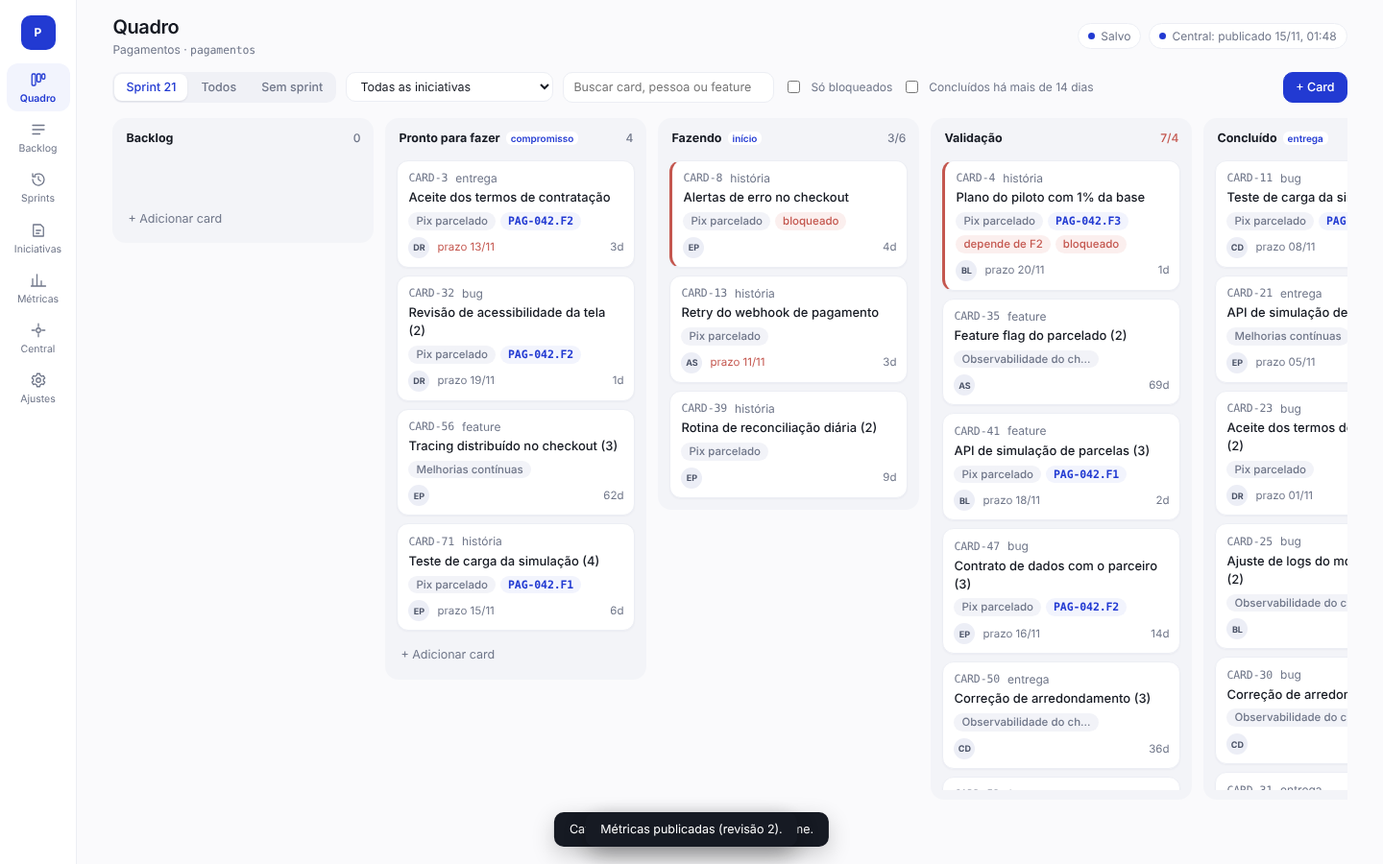
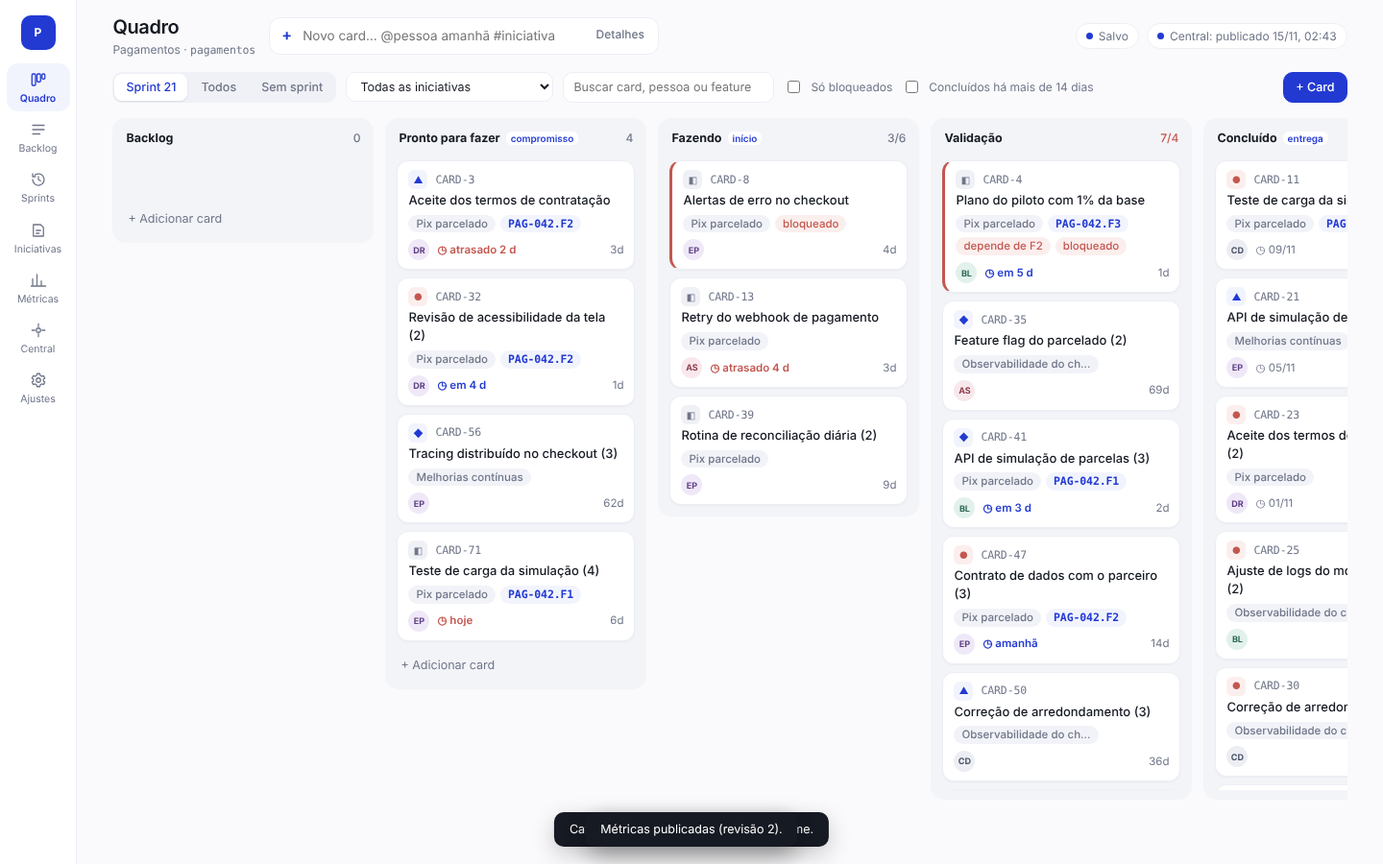
Quadro do Time: novo card no padrão da Central, criação rápida e lista de cards
- Formulário de novo card em dois painéis, como a tarefa da v14: título grande,
  responsável por avatar com "+ Nova pessoa", prazo com atalhos, sprint,
  iniciativa, feature na Central (fase e dependências), descrição; ao lado tipo,
  coluna inicial, pontos, link, "Mostrar ao gestor" e "Criar outro em seguida".
- Barra de criação rápida no topo: @pessoa, hoje/amanhã/dd/mm, #iniciativa ou
  #PAG-042, F2 e !tipo; "Detalhes" abre o formulário já preenchido.
- Backlog virou lista agrupável (iniciativa, coluna, responsável, sprint) com
  filtros, busca, prazo relativo e "+ Card" por grupo.
- Cards do quadro com ícone do tipo e prazo relativo.
- Guia e telas atualizados. Contratos e schemas sem mudança.

Claude-Session: https://claude.ai/code/session_01Y4vaEcSFp9bJeK3TKJREPW

diff --git a/ferramenta-time/quadro_do_time_v1.html b/ferramenta-time/quadro_do_time_v1.html
@@ -163,6 +163,41 @@ dialog.wide{width:min(1020px,96vw)}
 .fcard .ci{display:flex;align-items:center;gap:6px;font-size:12px;padding:3px 6px;border-radius:8px;text-align:left;width:100%}.fcard .ci:hover{background:#f3f4f8}
 .fcard .ci .t{flex:1;min-width:0;white-space:nowrap;overflow:hidden;text-overflow:ellipsis}
 @media (max-width:900px){.ep-layout{grid-template-columns:1fr}.ep-list{position:static;max-height:none}.kpis{grid-template-columns:repeat(2,minmax(0,1fr))}.tl-row,.tl-axis{grid-template-columns:90px minmax(0,1fr)}.tl-ov{left:116px}}
+/* Criação rápida e formulário de card (mesmo padrão da Central) */
+.quick{flex:1;max-width:620px;min-width:220px;position:relative}
+.quick input{width:100%;border:1px solid var(--line);background:#fff;border-radius:12px;padding:9px 92px 9px 34px;outline:none}
+.quick input:focus{border-color:var(--bv);box-shadow:0 0 0 3px var(--bv-soft)}
+.quick .pl{position:absolute;left:13px;top:7px;color:var(--bv);font-weight:700;font-size:16px}
+.quick .more{position:absolute;right:5px;top:5px}
+.qinfo{position:absolute;left:0;top:100%;margin-top:6px;display:none;background:#fff;color:var(--muted);border:1px solid var(--line);border-radius:10px;padding:6px 10px;font-size:12px;box-shadow:0 8px 24px rgba(20,30,70,.1);width:max-content;max-width:min(560px,90vw);z-index:5}
+.quick:focus-within .qinfo{display:block}
+.tf-grid{display:grid;grid-template-columns:minmax(0,1.15fr) minmax(0,1fr);flex:1;min-height:0}
+.tf-main{padding:24px 28px;display:flex;flex-direction:column;gap:16px;overflow:auto}
+.tf-side{padding:24px;background:#f8f9fc;border-left:1px solid var(--line);display:flex;flex-direction:column;gap:14px;overflow:auto}
+.tf-h{font-family:var(--title);font-size:12px;font-weight:650;letter-spacing:.06em;text-transform:uppercase;color:var(--muted)}
+.tf-title{border:0;border-bottom:1.5px solid var(--line);outline:none;font-size:19px;font-weight:600;font-family:var(--title);letter-spacing:-.01em;padding:6px 0 10px;width:100%;background:transparent}
+.tf-title:focus{border-bottom-color:var(--bv)}.tf-title::placeholder{color:var(--faint);font-weight:500}
+.tf-row{display:grid;grid-template-columns:1fr 1fr;gap:12px}
+.field{display:flex;flex-direction:column;gap:5px;min-width:0}.field>label{font-size:11.5px;font-weight:600;color:var(--muted)}
+.field input:not([type=checkbox]),.field select,.field textarea{width:100%;border:1px solid #e1e4ec;border-radius:10px;padding:8px 10px;background:#fff;outline:none}
+.field input:focus,.field select:focus,.field textarea:focus{border-color:var(--bv)}
+.hint{font-size:11.5px;color:var(--muted);display:flex;gap:6px;flex-wrap:wrap;align-items:center}
+.tgl{display:inline-flex;gap:8px;align-items:center;font-size:13px;color:var(--ink);font-weight:500;cursor:pointer}.tgl input{accent-color:var(--bv)}
+.sgw{display:flex;background:#f0f1f6;border-radius:10px;padding:2px;gap:2px;flex-wrap:wrap}.sgw button{flex:1;padding:5px 6px;border-radius:8px;color:var(--muted);font-weight:550;font-size:12px;white-space:nowrap}
+.sgw button.on{background:#fff;color:var(--bv);box-shadow:0 1px 2px rgba(20,30,70,.1)}
+.macts{display:flex;gap:8px;justify-content:flex-end;align-items:center;padding:14px 24px;border-top:1px solid var(--line)}
+/* Lista de cards */
+.lgrp{background:#fff;border:1px solid var(--line);border-radius:16px;overflow:hidden}
+.lgh{display:flex;align-items:center;gap:10px;padding:12px 16px;background:#fbfbfd;border-bottom:1px solid var(--line);flex-wrap:wrap}
+.lgh h3{font-size:13.5px}
+.lrow{display:grid;grid-template-columns:22px 62px minmax(0,1fr) 120px 110px 92px 26px;gap:10px;align-items:center;padding:8px 16px;border-bottom:1px solid var(--line);cursor:pointer;font-size:12.5px}
+.lrow:last-child{border-bottom:0}.lrow:hover{background:#f7f8fc}.lrow.done{color:var(--muted)}.lrow.done .lt{text-decoration:line-through;text-decoration-color:var(--faint)}
+.lrow .lt{display:flex;gap:6px;align-items:center;min-width:0}.lrow .lt>span:first-child{white-space:nowrap;overflow:hidden;text-overflow:ellipsis;font-weight:550}
+.lrow .sel{padding:3px 6px;font-size:11.5px;width:100%}
+.colp{display:inline-flex;align-items:center;gap:6px;font-size:11.5px;color:var(--muted);white-space:nowrap;overflow:hidden}.colp i{width:8px;height:8px;border-radius:50%;flex:none}
+.kic{display:inline-grid;place-items:center;width:20px;height:20px;border-radius:6px;background:#f0f1f6;color:var(--muted);font-size:10px}.kic.bug{background:var(--late-soft);color:var(--late)}.kic.feature,.kic.entrega{background:var(--bv-soft);color:var(--bv)}
+.due{font-size:11.5px;white-space:nowrap}.due.late{color:var(--late);font-weight:600}.due.soon{color:var(--bv);font-weight:600}
+@media (max-width:900px){.tf-row{grid-template-columns:1fr}.tf-grid{display:block;overflow:auto}.tf-main,.tf-side{overflow:visible}.tf-side{border-left:0;border-top:1px solid var(--line)}.lrow{grid-template-columns:22px minmax(0,1fr) auto 26px}.lrow .hm{display:none}.bar .sgw{flex:1 1 100%!important}.quick{order:3;flex-basis:100%}}
 dialog::backdrop{background:rgba(22,26,35,.35)}
 .mh{display:flex;align-items:center;gap:10px;padding:16px 20px;border-bottom:1px solid var(--line);position:sticky;top:0;background:#fff;z-index:1}
 .mb{padding:16px 20px;overflow:auto}
@@ -318,7 +353,7 @@ let lastMod = 0;            // lastModified conhecido do arquivo de dados
 let dirty = false, saving = false, saveTimer = null, saveState = 'none', saveErr = '';
 let catalog = null, catalogErr = '';  // catálogo decifrado (só em memória)
 let view = 'board';
-const ui = { boardFilter: 'sprint', epicFilter: '', q: '', onlyBlocked: false, showOldDone: false, backlogDone: false, metricsJson: false, centralPreview: '', epicSel: '', epicDone: false };
+const ui = { boardFilter: 'sprint', epicFilter: '', q: '', onlyBlocked: false, showOldDone: false, backlogDone: false, metricsJson: false, centralPreview: '', epicSel: '', epicDone: false, bGroup: 'epic', bFilter: 'open', lq: '' };
 const pub = { pendingStatus: false, timer: null, busy: false, msg: '', err: '' };
 let keysInfo = { lista: [], atual: null };
 let rootOk = false, rootName = '';
@@ -359,6 +394,15 @@ function normalizeDb(d) {
   for (const e of d.epics) { e.updates ??= []; e.featureNotes ??= {}; e.uid ??= uid(); }
   for (const s of d.sprints) { s.committed ??= []; s.uid ??= uid(); }
   return d;
+}
+
+const KIND_IC = { 'história': '◧', feature: '◆', entrega: '▲', bug: '●', spike: '✦', melhoria: '↑' };
+const kic = k => `<span class="kic ${k === 'bug' ? 'bug' : k === 'feature' || k === 'entrega' ? 'feature' : ''}" title="${esc(k)}">${KIND_IC[k] || '◧'}</span>`;
+function relDue(c) {         // prazo relativo: "amanhã", "em 3 d", "atrasado 2 d"
+  if (!isYmd(c.due)) return null;
+  if (isDone(c) || c.cancelledAt) return { txt: fmtD(c.due), cls: '' };
+  const n = Math.round((parseYmd(c.due) - parseYmd(today())) / DAY);
+  return n < 0 ? { txt: `atrasado ${-n} d`, cls: 'late' } : n === 0 ? { txt: 'hoje', cls: 'late' } : n === 1 ? { txt: 'amanhã', cls: 'soon' } : n <= 7 ? { txt: `em ${n} d`, cls: 'soon' } : { txt: fmtD(c.due), cls: '' };
 }
 
 /* ------------------------- pessoas do time ------------------------- */
@@ -918,7 +962,7 @@ function render() {
   try { body = ({ board: vBoard, backlog: vBacklog, sprints: vSprints, epics: vEpics, metrics: vMetrics, central: vCentral, settings: vSettings })[view](); }
   catch (e) { console.error(e); body = `<div class="banner warn">Erro ao desenhar a tela: ${esc(e.message)}</div>`; }
   const sx = $('#main').querySelector('.board')?.scrollLeft;
-  $('#main').innerHTML = `<header class="top"><div><h1>${esc(title)}</h1><div class="team">${esc(db.team.name)}${db.team.slug ? ` · <span class="code">${esc(db.team.slug)}</span>` : ''}</div></div><div class="grow"></div><div class="row" id="chrome">${chromeHtml()}</div></header>
+  $('#main').innerHTML = `<header class="top"><div><h1>${esc(title)}</h1><div class="team">${esc(db.team.name)}${db.team.slug ? ` · <span class="code">${esc(db.team.slug)}</span>` : ''}</div></div><div class="quick"><span class="pl">+</span><input id="quickCard" autocomplete="off" placeholder="Novo card… @pessoa amanhã #iniciativa" aria-label="Criar card rápido"><button class="btn sm ghost more" data-act="quickMore" title="Abrir o formulário completo">Detalhes</button><div class="qinfo" id="qinfo">Enter cria no ${esc(cols()[0].name)} · @pessoa responsável · hoje, amanhã ou dd/mm · #iniciativa ou #PAG-042 · F2 feature da Central · !bug, !spike, !feature…</div></div><div class="grow"></div><div class="row" id="chrome">${chromeHtml()}</div></header>
     ${db.demo ? '<div class="banner">Exemplo com dados fictícios do time Pagamentos. Nada é salvo nem publicado. <button class="btn sm" data-act="home">Voltar ao início</button></div>' : ''}
     ${body}`;
   if (sx) { const b = $('#main').querySelector('.board'); if (b) b.scrollLeft = sx; }
@@ -986,9 +1030,9 @@ function vBoard() {
 function kcHtml(c) {
   const age = daysInCol(c);
   return `<article class="kc ${c.blocked ? 'blk' : ''}" draggable="true" data-card="${c.id}" data-act="card">
-    <div class="row small muted"><span class="code">${esc(c.id)}</span><span>${esc(c.kind || '')}</span><span class="grow"></span>${c.points != null && c.points !== '' ? `<span>${esc(c.points)} pt</span>` : ''}</div>
+    <div class="row small muted">${kic(c.kind)}<span class="code">${esc(c.id)}</span><span class="grow"></span>${c.points != null && c.points !== '' ? `<span class="chip line">${esc(c.points)} pt</span>` : ''}</div>
     <div class="tt">${esc(c.title)}</div><div class="mt">${cardChips(c)}</div>
-    <div class="ft">${c.owner ? avatar(c.owner) : ''}${c.due ? `<span class="${!isDone(c) && c.due < today() ? 'latec' : ''}">prazo ${fmtD(c.due)}</span>` : ''}<span class="grow"></span>${!isDone(c) && colIdx(c.col) > 0 ? `<span title="Dias nesta coluna">${age}d</span>` : ''}</div></article>`;
+    <div class="ft">${c.owner ? avatar(c.owner) : ''}${relDue(c) ? `<span class="due ${relDue(c).cls}" title="Prazo ${fmtD(c.due)}">◷ ${relDue(c).txt}</span>` : ''}<span class="grow"></span>${!isDone(c) && colIdx(c.col) > 0 ? `<span title="Dias nesta coluna">${age}d</span>` : ''}</div></article>`;
 }
 function wireBoard() {
   const b = $('#main').querySelector('.board'); if (!b) return;
@@ -1012,21 +1056,39 @@ function epicOpts(sel, vazio, comSem = false) {
 }
 
 /* --------------------------------- Backlog --------------------------------- */
+function colDot(colId) { const i = colIdx(colId), n = Math.max(1, cols().length - 1); return STAGE_COL[Math.min(STAGE_COL.length - 1, Math.round(i / n * (STAGE_COL.length - 1)))] || '#d5dbf7'; }
+function listRow(c, sps) {
+  const d = relDue(c), col = cols()[colIdx(c.col)];
+  const spOpts = [...sps, ...(c.sprintId && !sps.some(s => s.id === c.sprintId) ? [sprintById(c.sprintId)].filter(Boolean) : [])];
+  return `<div class="lrow ${isDone(c) ? 'done' : ''}" data-act="card" data-card="${c.id}">${kic(c.kind)}<span class="code muted hm">${c.id}</span>
+    <span class="lt"><span>${esc(c.title)}</span>${c.featureRef ? `<span class="chip bv code">${esc(c.featureRef.split('.')[1])}</span>` : ''}${c.blocked ? '<span class="chip late">bloqueado</span>' : ''}</span>
+    <span class="colp hm"><i style="background:${colDot(c.col)}"></i>${esc(col?.name || c.col)}</span>
+    <span class="hm"><select class="sel" data-act="setSprint" data-card="${c.id}" onclick="event.stopPropagation()"><option value="">Sem sprint</option>${spOpts.map(s => `<option value="${s.id}" ${c.sprintId === s.id ? 'selected' : ''}>${esc(s.name)}</option>`).join('')}</select></span>
+    <span class="due ${d?.cls || ''}">${d ? '◷ ' + d.txt : '<span class="faint">sem prazo</span>'}</span>${c.owner ? avatar(c.owner) : '<span class="av" title="Sem responsável" style="background:#fff;border:1px dashed var(--faint)"></span>'}</div>`;
+}
 function vBacklog() {
-  const groups = [...epicsLive().filter(e => e.status !== 'done'), { id: '', name: 'Sem iniciativa' }];
-  const sps = db.sprints.filter(s => !s.deleted && s.state !== 'closed');
-  const html = groups.map(e => {
-    const cs = activeCards().filter(c => (c.epicId || '') === e.id && (ui.backlogDone || !isDone(c))).sort((a, b) => colIdx(a.col) - colIdx(b.col) || a.order - b.order);
-    if (!e.id && !cs.length) return '';
-    return `<div class="card flat"><div class="row" style="margin-bottom:8px"><h3>${esc(e.name)}</h3>${e.centralRef ? `<span class="chip bv code">${esc(e.centralRef)}</span>` : e.id ? '<span class="chip">iniciativa do time</span>' : ''}<span class="grow"></span>
-      <form class="row" data-act="quickAdd" data-epic="${e.id}"><input class="sin" name="t" placeholder="Novo card nesta iniciativa" style="width:240px"><button class="btn sm">Adicionar</button></form></div>
-      ${cs.length ? `<table class="t"><thead><tr><th>Card</th><th>Título</th><th>Tipo</th><th>Feature na Central</th><th>Coluna</th><th>Sprint</th><th>Prazo</th></tr></thead><tbody>${cs.map(c => `<tr class="click" data-act="card" data-card="${c.id}">
-        <td class="code">${c.id}</td><td>${esc(c.title)} ${c.blocked ? '<span class="chip late">bloqueado</span>' : ''}</td><td class="muted">${esc(c.kind)}</td><td>${c.featureRef ? `<span class="chip bv code">${esc(c.featureRef)}</span>` : '<span class="faint">–</span>'}</td>
-        <td>${esc(cols()[colIdx(c.col)]?.name || c.col)}</td><td><select class="sel" data-act="setSprint" data-card="${c.id}" onclick="event.stopPropagation()"><option value="">Sem sprint</option>${[...sps, ...(c.sprintId && !sps.some(s => s.id === c.sprintId) ? [sprintById(c.sprintId)].filter(Boolean) : [])].map(s => `<option value="${s.id}" ${c.sprintId === s.id ? 'selected' : ''}>${esc(s.name)}</option>`).join('')}</select></td>
-        <td class="${c.due && c.due < today() && !isDone(c) ? 'latec' : ''}">${fmtD(c.due)}</td></tr>`).join('')}</tbody></table>` : '<div class="empty">Sem cards abertos.</div>'}</div>`;
-  }).join('');
-  return `<div class="bar"><span class="muted small">Todos os cards do time, por iniciativa. As métricas consideram o backlog inteiro, com ou sem vínculo com a Central.</span><div class="grow"></div>
-    <label class="row small muted"><input type="checkbox" data-act="bd" ${ui.backlogDone ? 'checked' : ''}> Mostrar concluídos</label><button class="btn" data-act="newEpic">+ Iniciativa do time</button><button class="btn pri" data-act="newCard">+ Card</button></div><div class="stack">${html}</div>`;
+  const sps = db.sprints.filter(s => !s.deleted && s.state !== 'closed').sort((a, b) => (a.start || '').localeCompare(b.start || ''));
+  const q = normName(ui.lq), t = today();
+  const F = { open: c => !isDone(c), late: c => !isDone(c) && isYmd(c.due) && c.due < t, week: c => !isDone(c) && isYmd(c.due) && c.due <= addDays(t, 7), blocked: c => !!c.blocked && !isDone(c), noowner: c => !c.owner && !isDone(c), all: () => true };
+  const base = activeCards().filter(c => !q || normName(`${c.id} ${c.title} ${c.owner} ${c.featureRef || ''}`).includes(q));
+  const cs = base.filter(F[ui.bFilter] || F.open);
+  const cnt = k => base.filter(F[k]).length;
+  let groups;
+  if (ui.bGroup === 'col') groups = cols().map(c => ({ key: c.id, name: c.name, def: { col: c.id }, cards: cs.filter(x => x.col === c.id), dot: colDot(c.id) }));
+  else if (ui.bGroup === 'owner') { const ps = activePeople(); groups = [...ps.map(p => ({ key: p.id, name: p.name, av: p.name, sub: p.role, def: { owner: p.name }, cards: cs.filter(c => normName(c.owner) === normName(p.name)) })), { key: '-', name: 'Sem responsável', def: {}, cards: cs.filter(c => !c.owner) }, { key: '+', name: 'Fora da lista do time', def: {}, cards: cs.filter(c => c.owner && !ps.some(p => normName(p.name) === normName(c.owner))) }]; }
+  else if (ui.bGroup === 'sprint') groups = [...sps.map(s => ({ key: s.id, name: s.name, sub: `${fmtD(s.start)} a ${fmtD(s.end)}${s.state === 'active' ? ' · em andamento' : ''}`, def: { sprintId: s.id }, cards: cs.filter(c => c.sprintId === s.id) })), { key: '-', name: 'Sem sprint', def: { sprintId: null }, cards: cs.filter(c => !c.sprintId || !sps.some(s => s.id === c.sprintId)) }];
+  else groups = [...epicsLive().filter(e => e.status !== 'done').map(e => ({ key: e.id, name: e.name, ref: e.centralRef || '', lat: !e.centralRef, def: { epicId: e.id }, cards: cs.filter(c => c.epicId === e.id), prog: epicProgress(e) })), { key: '-', name: 'Sem iniciativa', def: { epicId: '' }, cards: cs.filter(c => !c.epicId || epicById(c.epicId)?.status === 'done') }];
+  const sortC = (a, b) => (isDone(a) - isDone(b)) || ((b.blocked ? 1 : 0) - (a.blocked ? 1 : 0)) || (a.due || '9999').localeCompare(b.due || '9999') || colIdx(b.col) - colIdx(a.col) || a.order - b.order;
+  const html = groups.filter(g => g.cards.length || ['epic', 'col', 'sprint'].includes(ui.bGroup) && g.key !== '-').map(g => `<div class="lgrp"><div class="lgh">${g.av ? avatar(g.av) : g.dot ? `<span class="colp"><i style="background:${g.dot}"></i></span>` : ''}<h3>${esc(g.name)}</h3>
+      ${g.ref ? `<span class="chip bv code">${esc(g.ref)}</span>` : g.lat ? '<span class="chip">do time</span>' : ''}${g.sub ? `<span class="small muted">${esc(g.sub)}</span>` : ''}<span class="small faint">${g.cards.length} card(s)</span>
+      ${g.prog != null ? `<span class="row small muted" style="width:140px;flex-wrap:nowrap"><span class="pb"><i style="width:${g.prog}%"></i></span>${g.prog}%</span>` : ''}<span class="grow"></span>
+      <button class="btn sm ghost" data-act="newCardIn" data-def="${esc(JSON.stringify(g.def))}">+ Card</button></div>
+      ${g.cards.length ? g.cards.sort(sortC).map(c => listRow(c, sps)).join('') : '<div class="empty" style="padding:12px 16px">Nada aqui com este filtro.</div>'}</div>`).join('');
+  return `<div class="bar"><div class="sgw" style="flex:none">${[['open', 'Abertos'], ['late', 'Atrasados'], ['week', 'Vencem em 7 dias'], ['blocked', 'Bloqueados'], ['noowner', 'Sem responsável'], ['all', 'Todos']].map(([k, l]) => `<button class="${ui.bFilter === k ? 'on' : ''}" data-act="bFilter" data-v="${k}">${l} <span class="faint">${cnt(k)}</span></button>`).join('')}</div>
+    <input class="sin" data-act="lq" placeholder="Filtrar cards" value="${esc(ui.lq)}" style="width:180px"><div class="grow"></div>
+    <span class="small muted">Agrupar por</span><div class="sgw" style="flex:none">${[['epic', 'Iniciativa'], ['col', 'Coluna'], ['owner', 'Responsável'], ['sprint', 'Sprint']].map(([k, l]) => `<button class="${ui.bGroup === k ? 'on' : ''}" data-act="bGroup" data-v="${k}">${l}</button>`).join('')}</div>
+    <button class="btn" data-act="newEpic">+ Iniciativa do time</button><button class="btn pri" data-act="newCard">+ Card</button></div>
+    <div class="stack">${html || '<div class="card flat muted">Nenhum card ainda. Use a barra no topo ou "+ Card".</div>'}</div>`;
 }
 
 /* --------------------------------- Sprints --------------------------------- */
@@ -1268,7 +1330,6 @@ function featureOpts(c) {
   const extra = c.featureRef && !fs.some(f => f.ref === c.featureRef) ? `<option value="${esc(c.featureRef)}" selected>${esc(c.featureRef)} (fora do catálogo)</option>` : '';
   return `<option value="">Sem feature</option>${extra}${fs.map(f => { const ph = featPhase({ ...f, init: ci }); return `<option value="${esc(f.ref)}" ${c.featureRef === f.ref ? 'selected' : ''}>${esc(f.ref)} · ${esc(f.name)}${ph ? ' · ' + esc(ph.name) : ''}</option>`; }).join('')}`;
 }
-const KIND_IC = { 'história': '◧', feature: '◆', entrega: '▲', bug: '●', spike: '✦', melhoria: '↑' };
 function cardModal(id) {
   const c = cardById(id); if (!c) return;
   const e = epicById(c.epicId), ci = catInit(e?.centralRef), f = c.featureRef ? catFeature(c.featureRef) : null, ph = featPhase(f), deps = featDeps(f);
@@ -1332,6 +1393,84 @@ function cardModal(id) {
   }));
   const t = $('#dlg .ttl-in'); t.onkeydown = ev => { if (ev.key === 'Enter') t.blur(); };
 }
+let nf = null;               // rascunho do formulário de novo card
+function newCardModal(def = {}) {
+  const sp = activeSprint();
+  nf = { title: '', owner: '', due: '', epicId: '', featureRef: null, kind: 'história', col: cols()[0].id, sprintId: view === 'board' && ui.boardFilter === 'sprint' && sp ? sp.id : null, points: '', link: '', notes: '', showToCentral: false, again: false, ...def };
+  if (nf.featureRef && !nf.epicId) { const ini = nf.featureRef.split('.')[0]; nf.epicId = epicsLive().find(e => e.centralRef === ini)?.id || ''; }
+  renderNewCard(); setTimeout(() => { const t = $('#nfTitle'); t?.focus(); t?.setSelectionRange(t.value.length, t.value.length); }, 30);
+}
+function renderNewCard() {
+  const e = epicById(nf.epicId), ci = catInit(e?.centralRef), f = nf.featureRef ? catFeature(nf.featureRef) : null, ph = featPhase(f), od = openDeps(f);
+  const fs = (ci?.features || []).filter(x => x.status === 'open');
+  const pessoas = activePeople();
+  const sps = db.sprints.filter(s => !s.deleted && s.state !== 'closed');
+  const venc = isYmd(nf.due) ? Math.round((parseYmd(nf.due) - parseYmd(today())) / DAY) : null;
+  modal(`<form class="tform" id="nfForm" style="display:flex;flex-direction:column;min-height:0;flex:1"><div class="tf-grid">
+    <div class="tf-main">
+      <div class="tf-h">Novo card</div>
+      <input class="tf-title" id="nfTitle" placeholder="O que precisa ser feito?" value="${esc(nf.title)}" maxlength="200" autocomplete="off" required>
+      <div class="field"><label>Responsável</label><div class="who"><button type="button" class="none ${nf.owner ? '' : 'on'}" data-act="nfSet" data-k="owner" data-v="">Ninguém</button>${pessoas.map(p => `<button type="button" class="${normName(p.name) === normName(nf.owner) ? 'on' : ''}" data-act="nfSet" data-k="owner" data-v="${esc(p.name)}" title="${esc(p.role || '')}">${avatar(p.name)}${esc(p.name.split(' ')[0])}</button>`).join('')}</div>
+        <div class="mini"><input class="sin" id="nfNewP" placeholder="+ Nova pessoa no time" maxlength="80" autocomplete="off"><button type="button" class="btn sm" data-act="nfAddP">Adicionar</button></div></div>
+      <div class="tf-row">
+        <div class="field"><label>Prazo</label><input type="date" data-nf="due" value="${esc(nf.due)}"><div class="hint">${venc == null ? '' : venc < 0 ? '<span class="latec">já vencido</span>' : venc === 0 ? 'hoje' : venc === 1 ? 'amanhã' : `em ${venc} dias`} <button type="button" class="chip line" data-act="nfDue" data-n="0">hoje</button><button type="button" class="chip line" data-act="nfDue" data-n="1">amanhã</button><button type="button" class="chip line" data-act="nfDue" data-n="7">+7 d</button></div></div>
+        <div class="field"><label>Sprint</label><select data-nf="sprintId"><option value="">Sem sprint</option>${sps.map(s => `<option value="${s.id}" ${nf.sprintId === s.id ? 'selected' : ''}>${esc(s.name)}${s.state === 'active' ? ' (atual)' : ''}</option>`).join('')}</select></div>
+      </div>
+      <div class="field"><label>Iniciativa</label><select data-nf="epicId">${epicOpts(nf.epicId, 'Sem iniciativa')}</select><div class="hint">${e ? (e.centralRef ? `Ligada à Central: <span class="code bvc">${esc(e.centralRef)}</span>${ci ? ' · ' + esc(ci.name) : ''}` : 'Iniciativa do time, sem vínculo com a Central') : 'Sem iniciativa, o card conta só nas métricas do time'}</div></div>
+      <div class="field"><label>Feature na Central</label><select data-nf="featureRef" ${fs.length ? '' : 'disabled'}><option value="">${ci ? 'Sem feature' : e?.centralRef ? 'Catálogo não carregado' : 'Ligue a iniciativa à Central para escolher'}</option>${fs.map(x => { const p2 = featPhase({ ...x, init: ci }); return `<option value="${esc(x.ref)}" ${nf.featureRef === x.ref ? 'selected' : ''}>${esc(x.ref)} · ${esc(x.name)}${p2 ? ' · ' + esc(p2.name) : ''}</option>`; }).join('')}</select>
+        ${f ? `<div class="hint">${ph ? `<span class="chip line">fase ${esc(ph.name)}</span>` : ''}${f.due ? `prazo na Central ${fmtD(f.due)}` : ''}${od.length ? `<span class="latec">depende de ${esc(od.map(d => d.ref).join(', '))}, ainda aberta</span>` : ''}</div>` : ''}</div>
+      <div class="field"><label>Descrição <span class="faint">(fica só no time)</span></label><textarea data-nf="notes" rows="3" placeholder="Contexto, critérios de aceite…">${esc(nf.notes)}</textarea></div>
+    </div>
+    <aside class="tf-side">
+      <div class="tf-h">Detalhes</div>
+      <div class="field"><label>Tipo</label><div class="pills">${KINDS.map(k => `<button type="button" class="${nf.kind === k ? 'on' : ''}" data-act="nfSet" data-k="kind" data-v="${k}">${KIND_IC[k]} ${k}</button>`).join('')}</div></div>
+      <div class="field"><label>Começa em</label><div class="sgw">${cols().slice(0, Math.max(2, colIdx(db.settings.startCol) + 1)).map(c => `<button type="button" class="${nf.col === c.id ? 'on' : ''}" data-act="nfSet" data-k="col" data-v="${c.id}">${esc(c.name)}</button>`).join('')}</div></div>
+      <div class="tf-row"><div class="field"><label>Pontos</label><input type="number" min="0" step="0.5" data-nf="points" value="${esc(nf.points)}" placeholder="opcional"></div><div class="field"><label>Link</label><input data-nf="link" value="${esc(nf.link)}" placeholder="https://"></div></div>
+      <label class="tgl"><input type="checkbox" data-nf="showToCentral" ${nf.showToCentral ? 'checked' : ''}><span>Mostrar ao gestor mesmo sem feature</span></label>
+      <div class="hint">Cards com feature sempre aparecem na Central, embaixo da feature.</div>
+    </aside></div>
+    <div class="macts"><label class="tgl small" style="margin-right:auto"><input type="checkbox" data-nf="again" ${nf.again ? 'checked' : ''}><span>Criar outro em seguida</span></label><button type="button" class="btn" data-act="close">Cancelar</button><button class="btn pri">Criar card</button></div></form>`, 'wide');
+  const d = $('#dlg');
+  $('#nfTitle').addEventListener('input', ev => { nf.title = ev.target.value; });
+  d.querySelectorAll('[data-nf]').forEach(el => el.addEventListener(el.tagName === 'TEXTAREA' || (el.tagName === 'INPUT' && el.type !== 'checkbox' && el.type !== 'date') ? 'input' : 'change', () => {
+    const k = el.dataset.nf; nf[k] = el.type === 'checkbox' ? el.checked : el.value;
+    if (k === 'epicId') { const ne = epicById(nf.epicId); if (nf.featureRef && !nf.featureRef.startsWith((ne?.centralRef || '#') + '.')) nf.featureRef = null; }
+    if (['epicId', 'featureRef', 'due', 'sprintId'].includes(k)) renderNewCard();
+  }));
+  $('#nfNewP').addEventListener('keydown', ev => { if (ev.key === 'Enter') { ev.preventDefault(); d.querySelector('[data-act=nfAddP]').click(); } });
+  $('#nfForm').addEventListener('submit', ev => { ev.preventDefault(); criarDoFormulario(); });
+}
+function criarDoFormulario() {
+  const title = clip(nf.title, 200); if (!title) { toast('Escreva o que precisa ser feito.'); $('#nfTitle')?.focus(); return; }
+  const c = novoCard({ title, kind: nf.kind, epicId: nf.epicId, featureRef: nf.featureRef || null, owner: nf.owner, due: isYmd(nf.due) ? nf.due : '', col: nf.col, sprintId: nf.sprintId || null, points: nf.points === '' ? null : Number(nf.points) });
+  c.notes = nf.notes; c.link = nf.link.trim(); c.showToCentral = !!nf.showToCentral;
+  touch(); toast(`${c.id} criado em ${cols()[colIdx(c.col)].name}.`);
+  if (nf.again) { nf.title = ''; nf.notes = ''; renderNewCard(); setTimeout(() => $('#nfTitle')?.focus(), 30); } else closeModal();
+}
+function parseQuickCard(raw) {   // mesma ideia da barra da Central: @pessoa, data, #iniciativa, F2, !tipo
+  let s = ' ' + raw + ' '; const o = {};
+  let m = s.match(/\s!([^\s]+)(?=\s)/); if (m) { const k = KINDS.find(x => normName(x).startsWith(normName(m[1]))); if (k) { o.kind = k; s = s.replace(m[0], ' '); } }
+  m = s.match(/\s@([^\s]+)/); if (m) { const q = normName(m[1]); const p = activePeople().find(x => normName(x.name.split(' ')[0]) === q) || activePeople().find(x => normName(x.name).startsWith(q)); if (p) { o.owner = p.name; s = s.replace(m[0], ' '); } }
+  m = s.match(/\s#([^\s]+)/); if (m) { const q = normName(m[1]); const ep = epicsLive().find(x => normName(x.centralRef || '') === q) || epicsLive().find(x => normName(x.name).replace(/\s+/g, '-') === q) || epicsLive().find(x => normName(x.name).startsWith(q.replace(/-/g, ' '))); if (ep) { o.epicId = ep.id; s = s.replace(m[0], ' '); } }
+  m = s.match(/\s(?:([A-Za-z]{2,5}-\d{3,})\.)?[Ff](\d+)(?=\s)/); if (m) { const ini = m[1] ? m[1].toUpperCase() : epicById(o.epicId)?.centralRef; const ref = ini ? `${ini}.F${m[2]}` : null; if (ref && (catFeature(ref) || !catalog)) { o.featureRef = ref; if (!o.epicId) o.epicId = epicsLive().find(x => x.centralRef === ini)?.id || ''; s = s.replace(m[0], ' '); } }
+  const dm = s.match(/\s(\d{1,2})\/(\d{1,2})(?=\s)/);
+  if (/\shoje(?=\s)/i.test(s)) { o.due = today(); s = s.replace(/\shoje(?=\s)/i, ' '); }
+  else if (/\samanh[ãa](?=\s)/i.test(s)) { o.due = addDays(today(), 1); s = s.replace(/\samanh[ãa](?=\s)/i, ' '); }
+  else if (dm) { const y = new Date().getFullYear(); let d = `${y}-${pad(+dm[2])}-${pad(+dm[1])}`; if (isYmd(d)) { if (d < today()) d = `${y + 1}-${pad(+dm[2])}-${pad(+dm[1])}`; o.due = d; s = s.replace(dm[0], ' '); } }
+  o.title = s.replace(/\s+/g, ' ').trim(); return o;
+}
+function quickInfo(o) {
+  const e = epicById(o.epicId);
+  return [o.owner ? 'Com ' + o.owner : 'Sem responsável', o.due ? 'prazo ' + fmtD(o.due) : 'sem prazo', e ? e.name + (e.centralRef ? ' · ' + e.centralRef : '') : 'sem iniciativa', o.featureRef ? 'feature ' + o.featureRef : '', o.kind || ''].filter(Boolean).join(' · ') + ` · entra em ${cols()[0].name}`;
+}
+document.addEventListener('input', e => { if (e.target.id !== 'quickCard' || !db) return; const v = e.target.value.trim(), q = $('#qinfo'); if (q) q.textContent = v ? quickInfo(parseQuickCard(v)) + ' · Enter cria' : `Enter cria no ${cols()[0].name} · @pessoa responsável · hoje, amanhã ou dd/mm · #iniciativa ou #PAG-042 · F2 feature da Central · !bug, !spike, !feature…`; });
+document.addEventListener('keydown', e => {
+  if (e.target.id !== 'quickCard' || e.key !== 'Enter' || !db) return;
+  const v = e.target.value.trim(); if (!v) return; const o = parseQuickCard(v); if (!o.title) return;
+  const c = novoCard({ ...o, col: cols()[0].id, sprintId: null }); e.target.value = ''; touch();
+  toast(`${c.id} criado: ${clip(c.title, 50)}`); setTimeout(() => $('#quickCard')?.focus(), 0);
+});
+
 function epicModal(id) {
   const e = epicById(id); if (!e) return;
   const inits = catInits(), ci = catInit(e.centralRef);
@@ -1425,7 +1564,14 @@ document.addEventListener('click', async e => {
       case 'personOff': case 'personOn': { const p = db.people.find(x => x.id === id); p.active = a === 'personOn'; p.upd = Date.now(); touch(false); break; }
       case 'personDel': { const p = db.people.find(x => x.id === id), n = cardsDe(p).length; if (n) { toast(`${p.name} é responsável por ${n} card(s). Desative em vez de remover, para manter o histórico.`, 5000); return; } if (!confirm(`Remover ${p.name} do time?`)) return; p.deleted = true; p.upd = Date.now(); touch(false); break; }
       case 'card': if (e.target.closest('select')) return; cardModal(el.dataset.card); break;
-      case 'newCard': { const c = novoCard({ col: el.dataset.col || cols()[0].id, epicId: ui.epicFilter && ui.epicFilter !== '-' ? ui.epicFilter : '' }); touch(); cardModal(c.id); setTimeout(() => { const t = $('#dlg [data-cf=title]'); t?.select(); }, 30); break; }
+      case 'newCard': newCardModal({ col: el.dataset.col || cols()[0].id, epicId: ui.epicFilter && ui.epicFilter !== '-' ? ui.epicFilter : '' }); break;
+      case 'newCardIn': newCardModal(JSON.parse(el.dataset.def || '{}')); break;
+      case 'quickMore': { const inp = $('#quickCard'), o = parseQuickCard(inp?.value || ''); if (inp) inp.value = ''; newCardModal(o); break; }
+      case 'nfSet': nf[el.dataset.k] = el.dataset.v; renderNewCard(); break;
+      case 'nfDue': nf.due = addDays(today(), +el.dataset.n); renderNewCard(); break;
+      case 'nfAddP': { const r = novaPessoa($('#nfNewP').value); nf.owner = r.p.name; touch(false); renderNewCard(); toast(r.novo ? `${r.p.name} entrou no time.` : `${r.p.name} já estava no time.`); break; }
+      case 'bFilter': ui.bFilter = el.dataset.v; render(); break;
+      case 'bGroup': ui.bGroup = el.dataset.v; render(); break;
       case 'block': { const c = cardById(el.dataset.card); bloquear(c, $('#bcat').value, $('#breason').value); touch(); cardModal(c.id); break; }
       case 'unblock': { const c = cardById(el.dataset.card); desbloquear(c); touch(); cardModal(c.id); break; }
       case 'cancelCard': { const c = cardById(el.dataset.card); if (!confirm('Cancelar este card? Ele sai do quadro e das métricas, e vai para a Central como cancelado.')) return; c.cancelledAt = agoraComFuso(); if (c.blocked) desbloquear(c); c.upd = Date.now(); closeModal(); touch(); break; }
@@ -1435,7 +1581,7 @@ document.addEventListener('click', async e => {
       case 'epicFromCentral': { const ci = catInit(el.dataset.ref); const ep = novoEpico(ci.name); ep.centralRef = ci.ref; ui.epicSel = ep.id; touch(); toast(`Iniciativa ${ci.ref} trazida para o quadro.`); break; }
       case 'epicSel': ui.epicSel = id; render(); break;
       case 'toggleEpDone': ui.epicDone = !ui.epicDone; render(); break;
-      case 'addCardFeat': { const c = novoCard({ col: cols()[0].id, epicId: el.dataset.epic, featureRef: el.dataset.ref || null }); touch(); cardModal(c.id); setTimeout(() => $('#dlg .ttl-in')?.select(), 30); break; }
+      case 'addCardFeat': newCardModal({ epicId: el.dataset.epic, featureRef: el.dataset.ref || null }); break;
       case 'editEpic': epicModal(id); break;
       case 'addUpdate': { const ep = epicById(id), t = $('#upd').value.trim(); if (!t) return; ep.updates.push({ date: today(), text: clip(t, 500), ...(db.team.contact ? { author: db.team.contact } : {}) }); ep.upd = Date.now(); touch(); epicModal(id); break; }
       case 'delEpic': { const ep = epicById(id); if (!confirm('Excluir esta iniciativa?')) return; ep.deleted = true; ep.upd = Date.now(); closeModal(); touch(); break; }
@@ -1491,7 +1637,6 @@ document.addEventListener('change', e => {
     case 'ef': ui.epicFilter = el.value; render(); break;
     case 'ob': ui.onlyBlocked = el.checked; render(); break;
     case 'od': ui.showOldDone = el.checked; render(); break;
-    case 'bd': ui.backlogDone = el.checked; render(); break;
     case 'linkFeat': { const c = cardById(el.dataset.card); if (!el.value) return; c.featureRef = el.value; c.upd = t; touch(); toast(`${c.id} ligado a ${el.value}.`); break; }
     case 'epicStatus': { const ep = epicById(el.dataset.id); ep.status = el.value; ep.doneAt = el.value === 'done' ? agoraComFuso() : null; ep.upd = t; touch(); break; }
     case 'setSprint': { const c = cardById(el.dataset.card); c.sprintId = el.value || null; c.upd = t; touch(); break; }
@@ -1505,7 +1650,7 @@ document.addEventListener('change', e => {
     case 'colStart': { const id = cols()[+el.dataset.i].id; if (colIdx(id) < colIdx(db.settings.commitCol)) { toast('O início vem depois ou na mesma coluna do compromisso.'); render(); return; } db.settings.startCol = id; db.settings.upd = t; touch(false); break; }
   }
 });
-document.addEventListener('input', e => { if (e.target.dataset?.act === 'q') { ui.q = e.target.value; const pos = e.target.selectionStart; render(); const q = $('#main [data-act=q]'); q.focus(); q.setSelectionRange(pos, pos); } });
+document.addEventListener('input', e => { if (e.target.dataset?.act === 'lq') { ui.lq = e.target.value; const pos = e.target.selectionStart; render(); const q = $('#main [data-act=lq]'); q.focus(); q.setSelectionRange(pos, pos); return; } if (e.target.dataset?.act === 'q') { ui.q = e.target.value; const pos = e.target.selectionStart; render(); const q = $('#main [data-act=q]'); q.focus(); q.setSelectionRange(pos, pos); } });
 document.addEventListener('submit', e => {
   const f = e.target, a = f.dataset.act;
   if (a === 'addPerson' || a === 'addPeople' || a === 'addPersonCard') {

diff --git a/ferramenta-time/guia-adaptacao-times.md b/ferramenta-time/guia-adaptacao-times.md
@@ -52,8 +52,10 @@ Cada feature do catálogo pode trazer dois campos opcionais:
 ### 2.1 O que ele faz
 | Tela | Para quê |
 |---|---|
-| **Quadro** | Colunas com limite de WIP, arrastar e soltar, filtro por sprint, iniciativa, bloqueados e busca. Cada card mostra o épico, a feature da Central, bloqueio, prazo e dias na coluna. Aviso "depende de F1" quando a feature depende de outra ainda aberta |
-| **Backlog** | Todos os cards por iniciativa, com feature e sprint de cada um; inclusão rápida de cards |
+| **Quadro** | Colunas com limite de WIP, arrastar e soltar, filtro por sprint, iniciativa, bloqueados e busca. Cada card mostra o ícone do tipo, o épico, a feature da Central, bloqueio, prazo relativo e dias na coluna. Aviso "depende de F1" quando a feature depende de outra ainda aberta |
+| **Backlog** | Lista de cards agrupada por iniciativa, coluna, responsável ou sprint, com filtros (abertos, atrasados, vencem em 7 dias, bloqueados, sem responsável, todos) e busca. Cada linha mostra tipo, código, feature, coluna, sprint (trocável ali mesmo), prazo relativo ("amanhã", "atrasado 2 d") e responsável; "+ Card" em cada grupo já cria o card naquele grupo |
+| **Novo card** | Formulário no mesmo padrão da tarefa da Central: título grande, responsável por avatar (com "+ Nova pessoa"), prazo com atalhos, sprint, iniciativa, feature na Central (com fase e dependências), descrição; ao lado tipo, coluna inicial, pontos, link e "Mostrar ao gestor". "Criar outro em seguida" mantém o formulário aberto |
+| **Criação rápida** | Barra no topo de todas as telas: `Ajustar retry @ana amanhã #PAG-042 F2 !bug` + Enter cria o card no Backlog com responsável, prazo (`hoje`, `amanhã` ou `dd/mm`), iniciativa (nome ou código da Central), feature e tipo. "Detalhes" abre o formulário já preenchido com o que foi digitado |
 | **Sprints** | Planejar, iniciar (o compromisso é registrado no início) e fechar. Ao fechar, os cards abertos vão para a próxima sprint ou para o backlog, e a ferramenta pergunta se publica as métricas |
 | **Iniciativas** | Lista à esquerda (ligadas à Central, do time sem vínculo, da Central ainda sem épico aqui com botão Trazer, concluídas) e o detalhe da iniciativa escolhida: progresso, cards em andamento, bloqueios, previsão do time comparada ao prazo da Central, distribuição dos cards por coluna, atualização de status de uma linha registrada ali mesmo, linha do tempo com fases, prazos das features, hoje, prazo e previsão, um cartão por feature (fase, dependências, progresso e cards abertos, com "+ Card nesta feature") e os cards sem feature, com seletor para ligar a uma feature |
 | **Métricas** | Vazão, lead time, cycle time, WIP, idade do WIP, fluxo cumulativo, demanda que chega, cards fechados por sprint, compromisso cumprido, % bloqueado, itens no prazo, bloqueios por motivo e distribuição do lead time. "Ver JSON" mostra exatamente o que vai para a Central |
